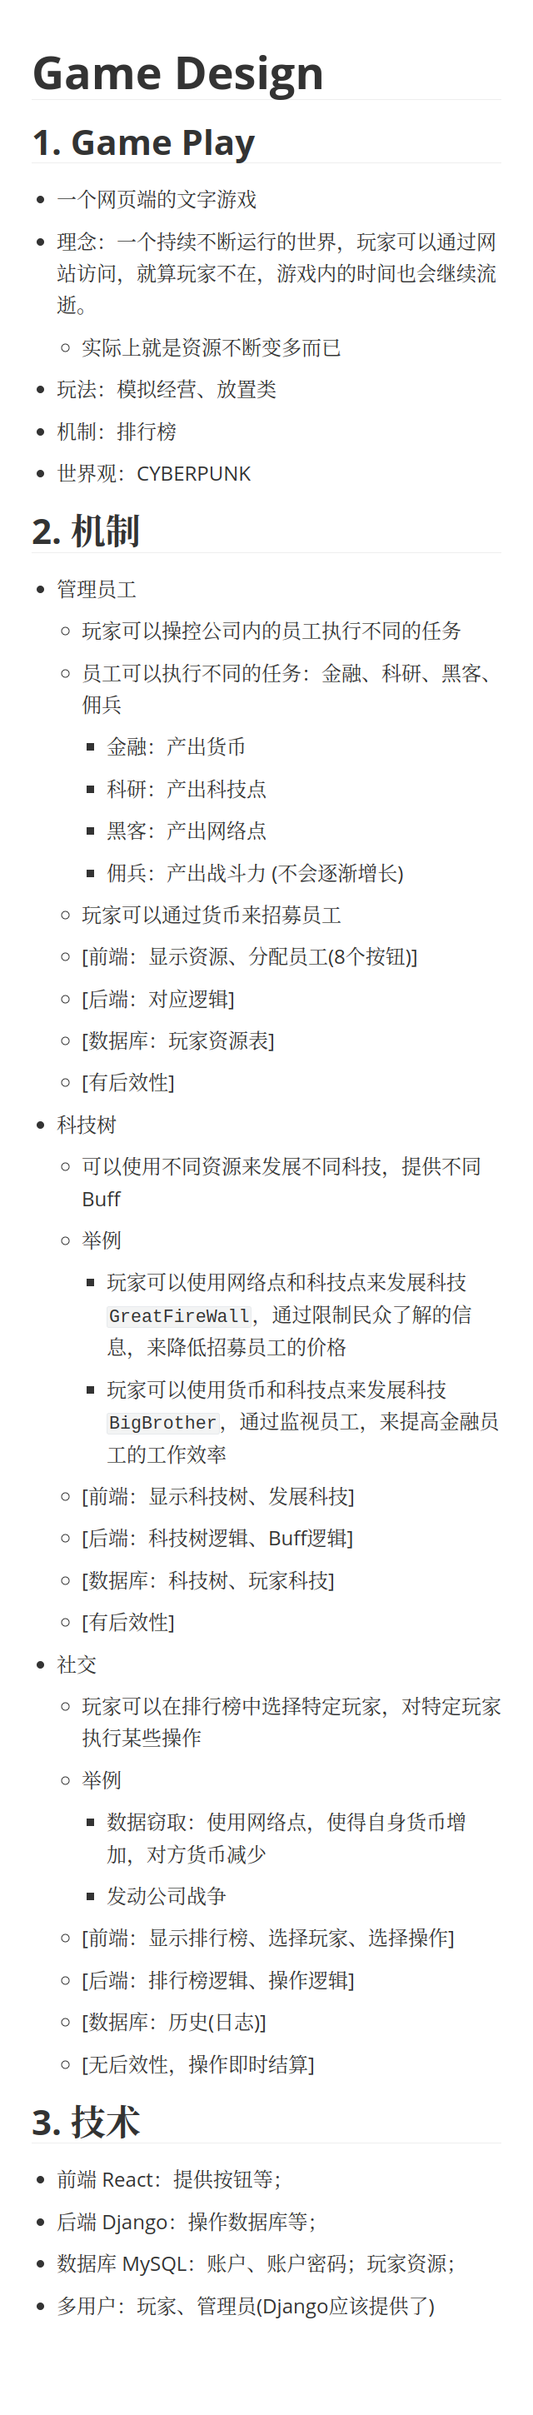
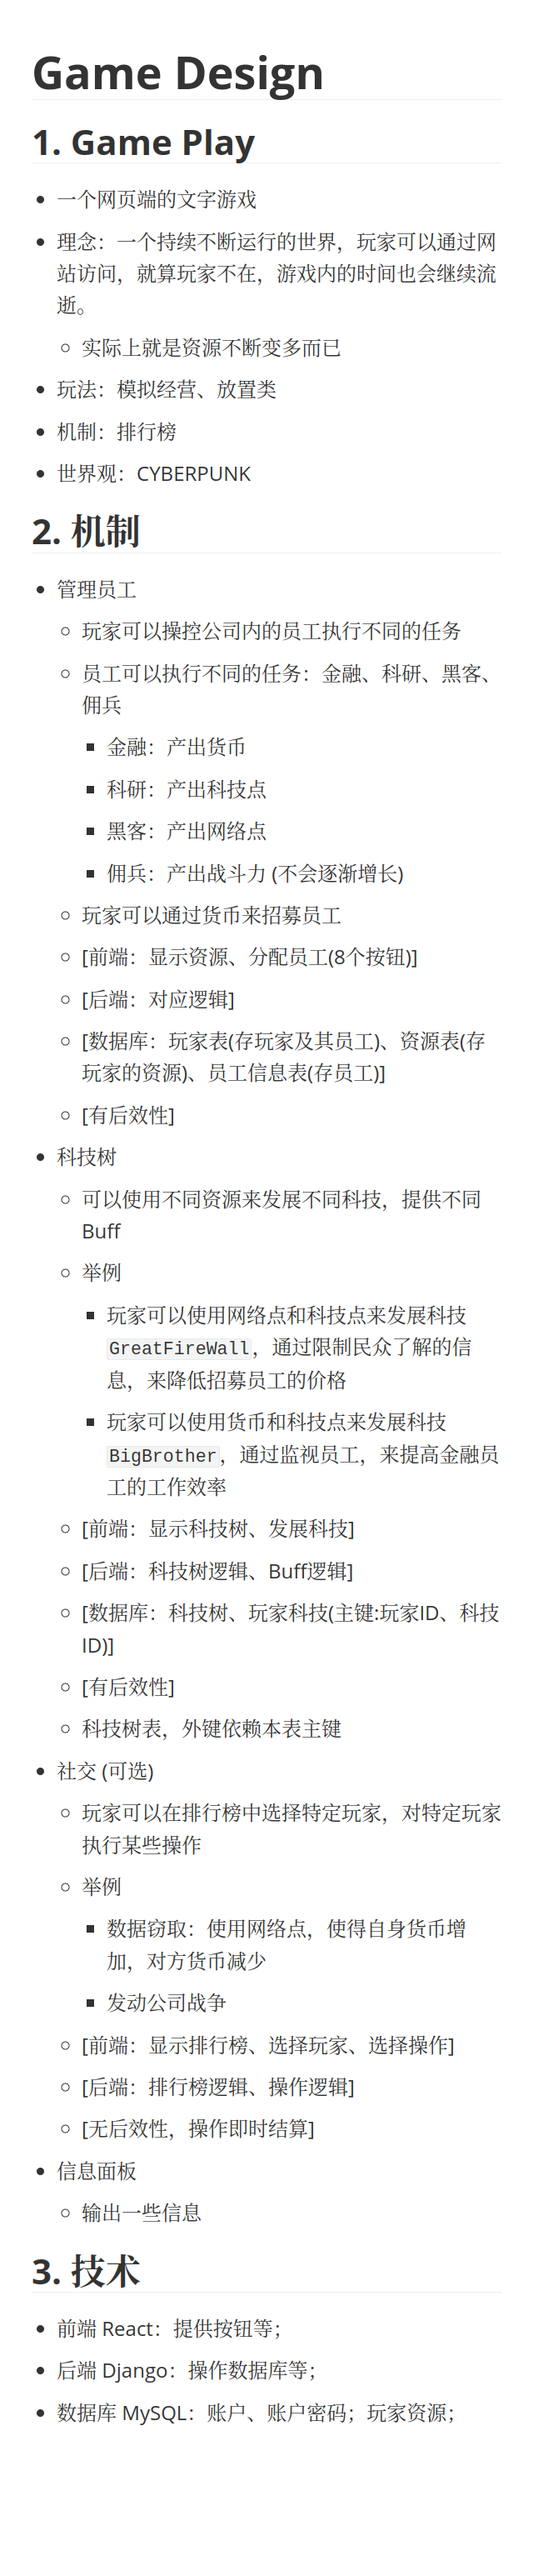
docs: 修改了game design

diff --git a/GameDesign.md b/GameDesign.md
@@ -25,7 +25,7 @@
   - 玩家可以通过货币来招募员工
   - [前端：显示资源、分配员工(8个按钮)]
   - [后端：对应逻辑]
-  - [数据库：玩家资源表]
+  - [数据库：玩家表(存玩家及其员工)、资源表(存玩家的资源)、员工信息表(存员工)]
   - [有后效性]
 
 - 科技树
@@ -35,18 +35,21 @@
     - 玩家可以使用货币和科技点来发展科技 `BigBrother`，通过监视员工，来提高金融员工的工作效率
   - [前端：显示科技树、发展科技]
   - [后端：科技树逻辑、Buff逻辑]
-  - [数据库：科技树、玩家科技]
+  - [数据库：科技树、玩家科技(主键:玩家ID、科技ID)]
   - [有后效性]
+  - 科技树表，外键依赖本表主键
 
-- 社交
+- 社交 (可选)
   - 玩家可以在排行榜中选择特定玩家，对特定玩家执行某些操作
   - 举例
     - 数据窃取：使用网络点，使得自身货币增加，对方货币减少
     - 发动公司战争
   - [前端：显示排行榜、选择玩家、选择操作]
   - [后端：排行榜逻辑、操作逻辑]
-  - [数据库：历史(日志)]
   - [无后效性，操作即时结算]
+
+- 信息面板
+  - 输出一些信息
 
 ## 3. 技术
 
@@ -54,4 +57,3 @@
 - 后端 Django：操作数据库等；
 - 数据库 MySQL：账户、账户密码；玩家资源；
 
-- 多用户：玩家、管理员(Django应该提供了)
